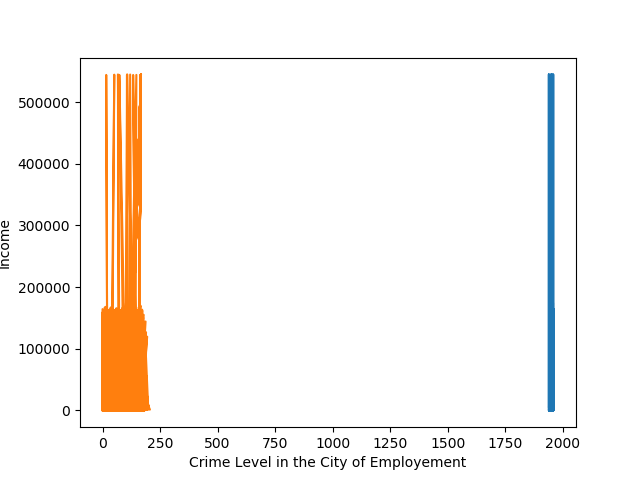
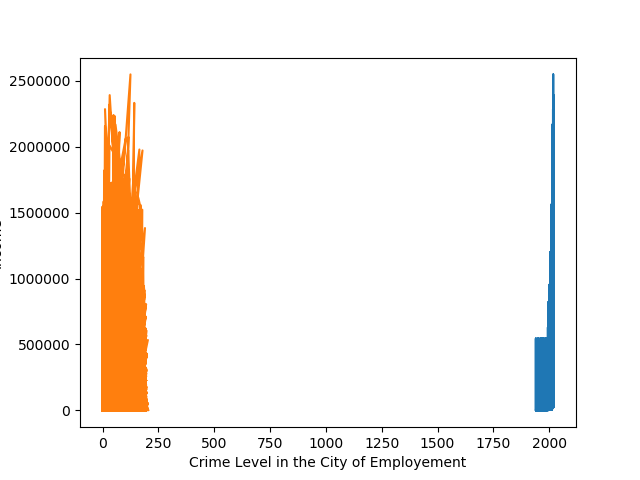
use whole frame

diff --git a/data/conor_graphing.py b/data/conor_graphing.py
@@ -8,7 +8,7 @@ from sklearn.impute import SimpleImputer
 from category_encoders import TargetEncoder
 from sklearn.compose import ColumnTransformer
 
-model_frame = pd.read_csv('train.csv').head(250000)
+model_frame = pd.read_csv('train.csv')#.head(250000)
 
 fig, ax = plt.subplots()
 target = model_frame['Total Yearly Income [EUR]']
